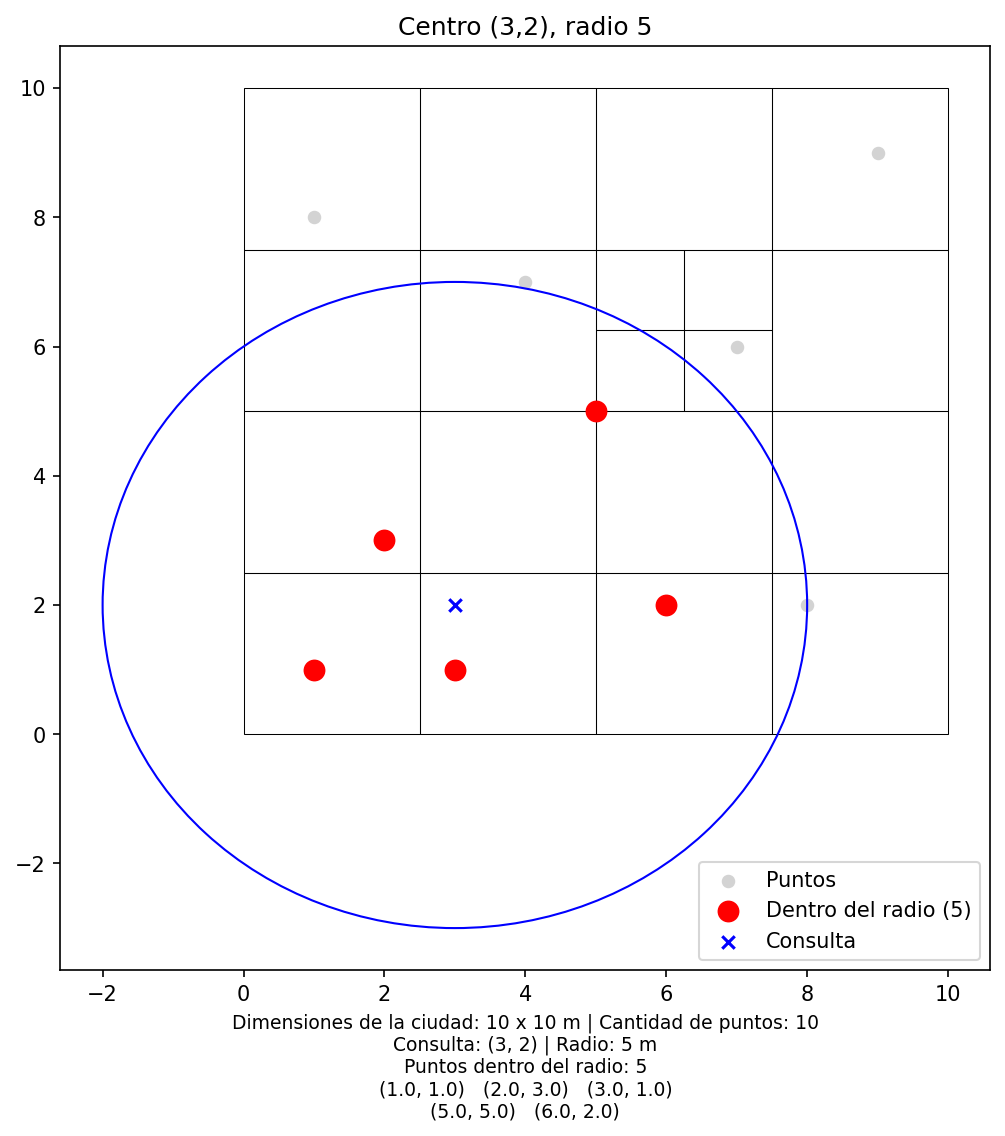
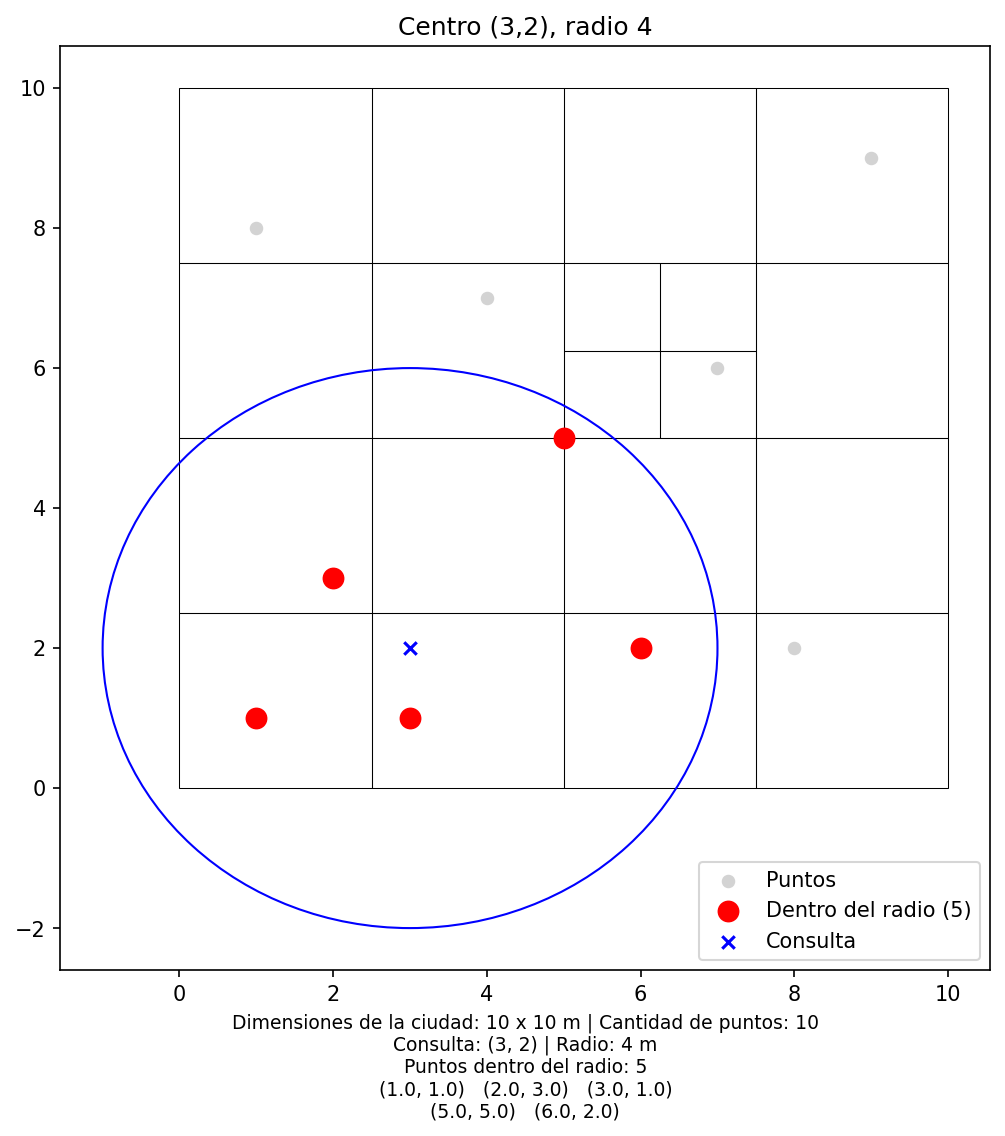
Corrección en gráficas

diff --git a/Laboratorio 4/test.py b/Laboratorio 4/test.py
@@ -38,7 +38,7 @@ def prueba_coincidir():
         resultado_arbol = sorted(raiz.consultar_en_radio(centro_x, centro_y, RADIO))        # Las listas que retornan las dos funciones se ordenan para poder comparar
         resultado_bruta = sorted(Quadtree.busqueda_radio_fuerza_bruta(puntos, centro_x, centro_y, RADIO))
         assert resultado_arbol == resultado_bruta, f" Difieren en el punto ({centro_x}, {centro_y})"   # Con assert se verifica que los dos resultados coincidan, si no se muestra el punto del problema
-    print("\nLas 100 consultas coinciden con fuerza bruta y el árbol")
+    print("\nLas 100 consultas por radio coinciden con fuerza bruta y el árbol")
 
     # Ahora comparar si coinciden los resultados en la búsqueda del vecino más cercano
     for i in range(100):                        # Se hacen 100 búsquedas del vecino más cercano
@@ -79,7 +79,7 @@ def prueba_radio():
 
     assert quadtree.consultar_en_radio(6, 3, 2) == [(6, 2)]  # En cada consulta al radio, se verifica que coincidan los puntos que retorna la función con los que debería ser 
     assert sorted(quadtree.consultar_en_radio(2, 2, 2)) == [(1, 1), (2, 3), (3, 1)]
-    assert sorted(quadtree.consultar_en_radio(5, 5, 3)) == [(4, 7), (5, 5), (7, 6)]
+    assert sorted(quadtree.consultar_en_radio(3, 2, 4)) == [(1, 1), (2, 3), (3, 1), (5, 5), (6, 2)]
     assert quadtree.consultar_en_radio(5, 1, 0.5) == []
 
     print("\nTodas las pruebas de búsqueda a un radio fueron exitosas")
@@ -90,7 +90,7 @@ def prueba_vecino():
     # De la lista que devuelve este método en la posición 0, está el punto
     assert quadtree.vecino_mas_cercano(6, 3)[0] == (6, 2)
     assert quadtree.vecino_mas_cercano(0, 0)[0] == (1, 1)
-
+    assert quadtree.vecino_mas_cercano(5.6, 9)[0] == (4, 7)
     print("\nPrueba del vecino más cercano exitosa")
 
 # Función para escoger la prueba unitaria a realizar 
@@ -256,14 +256,20 @@ def graficas_pequenas():
     encontrados = arbol.consultar_en_radio(2, 2, 2)
     graficar_radio(PUNTOS_PEQUENOS, 2, 2, 2, encontrados, "graficas/radio_pequeno_p2.png", "Centro (2,2), radio 2", raiz=arbol)
 
-    encontrados = arbol.consultar_en_radio(3, 2, 5)
-    graficar_radio(PUNTOS_PEQUENOS, 3, 2, 5, encontrados, "graficas/radio_pequeno_p3.png", "Centro (3,2), radio 5", raiz=arbol)
+    encontrados = arbol.consultar_en_radio(3, 2, 4)
+    graficar_radio(PUNTOS_PEQUENOS, 3, 2, 4, encontrados, "graficas/radio_pequeno_p3.png", "Centro (3,2), radio 4", raiz=arbol)
 
+    encontrados = arbol.consultar_en_radio(5, 1, 0.5)
+    graficar_radio(PUNTOS_PEQUENOS, 5, 1, 0.5, encontrados, "graficas/radio_pequeno_p4.png", "Centro (5,5), radio 0.5", raiz=arbol)
+    (5, 5, 3)
     vecino = arbol.vecino_mas_cercano(6, 3)
     graficar_vecino(PUNTOS_PEQUENOS, 6, 3, vecino, "graficas/vecino_pequeno_p1.png", "Vecino de (6,3)", raiz=arbol)
 
     vecino = arbol.vecino_mas_cercano(0,0)
     graficar_vecino(PUNTOS_PEQUENOS, 0, 0, vecino, "graficas/vecino_pequeno_p2.png", "Vecino de (0,0)", raiz=arbol)
+    
+    vecino = arbol.vecino_mas_cercano(5.6, 9)
+    graficar_vecino(PUNTOS_PEQUENOS,5.6, 9, vecino, "graficas/vecino_pequeno_p3.png", "Vecino de (5.6,9)", raiz=arbol)
 
 
 # GRÁFICAS GRANDES (ciudad de 40000 x 40000 m y 10000 puntos) y para una muestra de 400 puntos
